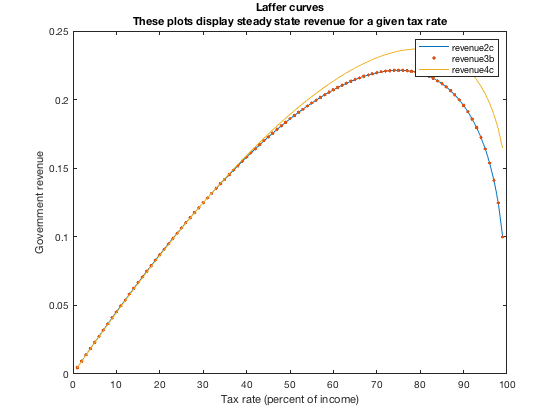
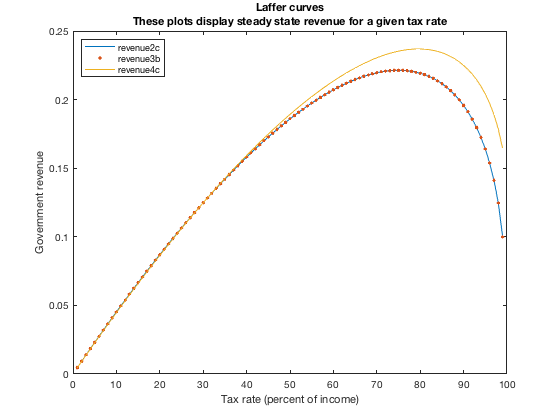
This version is currently presented in the pdf.

Changed region(s): [[0.7286, 0.0929, 0.8804, 0.1857], [0.1518, 0.0929, 0.3036, 0.1857]]

diff --git a/main.m b/main.m
@@ -40,7 +40,7 @@ title('Disutility of labour explodes with higher subsistence consumption')
 
 % b)
 xi = 1/3; % New assumption
-alpha3b = alpha_xi(theta, h, kdivy, tau, xi);
+alpha3b = alpha_xi(theta, h, kdivy, tau, xi); % Calibrating alpha3b that goes into the next step
 revenue3b = govrev(tauvec, w, xi, gamma, theta,r, alpha3b,  kdivy, delta);
 
 %% 4
@@ -51,7 +51,7 @@ params4 = [gamma, theta, delta, cbar, beta];
  % Need to create an anonymous func so that I can provide it to fsolve.
 fun = @(x) alpharoot(x, h, params4, tau);
 % part a
-alpha4a = fsolve(fun, alpha2b); % Gives me a calivrated alpha value
+alpha4a = fsolve(fun, alpha2b); % Gives me a calibrated alpha value that goes into the next step
 
 fun2 = @(x) alpharoot(alpha4a, x, params4, tauvec);
 hguess = ones(length(tauvec),1);
@@ -66,9 +66,14 @@ plot(revenue2c)
 hold on
 plot(revenue3b, '.')
 plot(revenue4c)
-legend('revenue2c','revenue3b', 'revenue4c')
+legend('revenue2c','revenue3b', 'revenue4c', 'Location','northwest')
 title( {'Laffer curves';'These plots display steady state revenue for a given tax rate'})
 xlabel('Tax rate (percent of income)')
 ylabel('Government revenue')
 hold off
-
+% Max revenues:
+[argvalue, argmax] = max(revenue2c); % Revenue maximising tax rate is 75%
+[argvalue, argmax] = max(revenue3b); % Revenue maximising tax rate is 75%
+[argvalue, argmax] = max(revenue4c); % Revenue maximising tax rate is 80%
+max(abs(revenue2c- revenue3b)); % < 1e-15, they are thereby deemed exactly the same.
+max(abs(revenue2c(1:35)- revenue4c(1:35))) % <1e-03

diff --git a/transpath.m b/transpath.m
@@ -45,12 +45,11 @@ c = (1-taubar)*w*h + r*k + v - k + (1-delta)*k; % true in steady state
 S = 100;
 params = [theta, gamma,taubar, delta, S, alpha6, beta];
 transfun = @(x) gfunc(kold, x, params); % Provide a vector of h, evaluated at the parameters
-guess = ones(S,1) * 1/3; % A good guess is the previous value
+guess = ones(S+1,1) * 1/3; % A good guess is the previous value. Note that we need to add one for period T = index 1.
 
 hvec = fsolve(transfun, guess); % Obtain the h that solves the transition
 
-[zero, k, r, w, c, y] = gfunc(kold, hvec, params); % Everything follows as we plug h into the system
-v = taubar*w.*hvec;
+[zero, k, r, w, c, y, v] = gfunc(kold, hvec, params); % Everything follows as we plug h into the system
 
 subplot(3,2,1);
 plot(y)
@@ -79,6 +78,6 @@ title('Capital')
 % Plot the six above jointly. Then plot the following:
 
 plot(v)
-title( {'Tax revenue';'Between the steady states, taxes increase, this plot shows evolution after T'})
+title( {'Tax revenue';'Between the steady states, taxes increase, this plot shows evolution from T'})
 xlabel('Periods after T')
 ylabel('Revenue per wage unit earned in a time period')

diff --git a/hfromalpha.m b/hfromalpha.m
@@ -5,20 +5,21 @@ function [h] = hfromalpha(tau, w, xi, gamma, theta, alphaval, kdivy, delta)
 % it's a long expression but it can be tested by giving this function the
 % argument tau = 0.3 and checking that hvec = 0.333 – which is true.
 
-ydivk = 1/kdivy; % Actually, this also happen to equal psi
+ydivk = 1/kdivy; % Actually, this also happen to equal psi...
 
  % Want to avoid lengthy algebra in one expression. So I break it into
  % parts:
 
 frac1 = ((1-tau)*w) ./ (alphaval * (1-xi));
-frac2 = 1/(ydivk^(1/(theta -1)) * (ydivk - delta));
+frac2 = 1/(ydivk^(1/(theta -1)) * (ydivk - delta)); % This will be a constant for all economies
 
 h = (frac1 .* frac2).^(1/(1+1/gamma));
 
 %{
-For the record, I came up with another expression I want sure about, both
+For the record, I came up with another expression I wasn't sure about, both
 yield the same result:
 h = ( (1/kdivy)^(1/(1-theta)) * (1-tau)*w / (( (1-xi)*alphaval*(1/kdivy-delta))) ).^(gamma/(1+gamma));
+It is described in the appendix of the main pdf.
 %}
 end
 

diff --git a/govrev.m b/govrev.m
@@ -1,9 +1,9 @@
-function [revenue] = govrev(tau, w, xi, gamma, theta,r, alphaval, kdivy, delta)
+function revenue = govrev(tau, w, xi, gamma, theta,r, alphaval, kdivy, delta)
 %govrev Tells how much revenue the government is making
 %   tau can be a vector of taxes. Rest are parameter values.
 
 % solve for optimal hours worked: 
-hvec = hfromalpha(tau, w, xi, gamma, theta, alphaval, kdivy, delta) % This is a function call!
+hvec = hfromalpha(tau, w, xi, gamma, theta, alphaval, kdivy, delta); % Obtain optimal hours to work
 % solve for new capital stock using f.o.c w.r.t capital
 kvec = (theta * (hvec.^(1-theta)) /r).^(1/(1-theta)); 
 % solve for new wage. Knowing K and H, we can use the marginal product of labour

diff --git a/alpha_xi.m b/alpha_xi.m
@@ -9,8 +9,7 @@ delta = 0.05;
 
 r = theta * 1/kdivy;
 k = (theta * (h^(1-theta)/r))^(1/(1-theta));
-%c = k*(kdivy^(theta - 1)-delta); % old relationship I think is wrong
-c = k*(1/kdivy -delta);
+c = k*(1/kdivy -delta); % from consuemr's budget constraints and the government's budget condition. Will be constant!
 cbar = c*xi;
 
 alphaxi = alpha(theta, h, kdivy, tau, c,  cbar, gamma);
